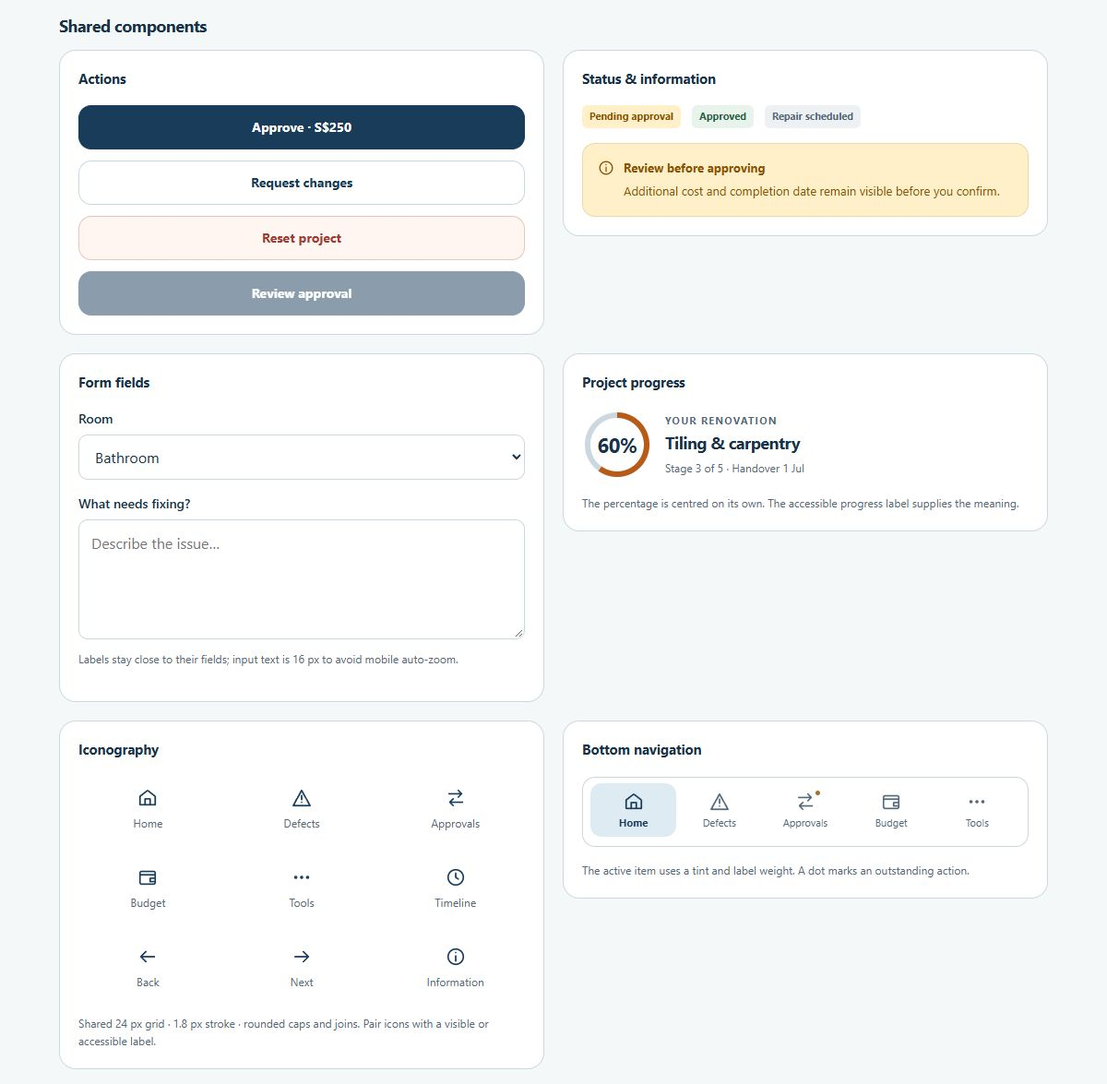
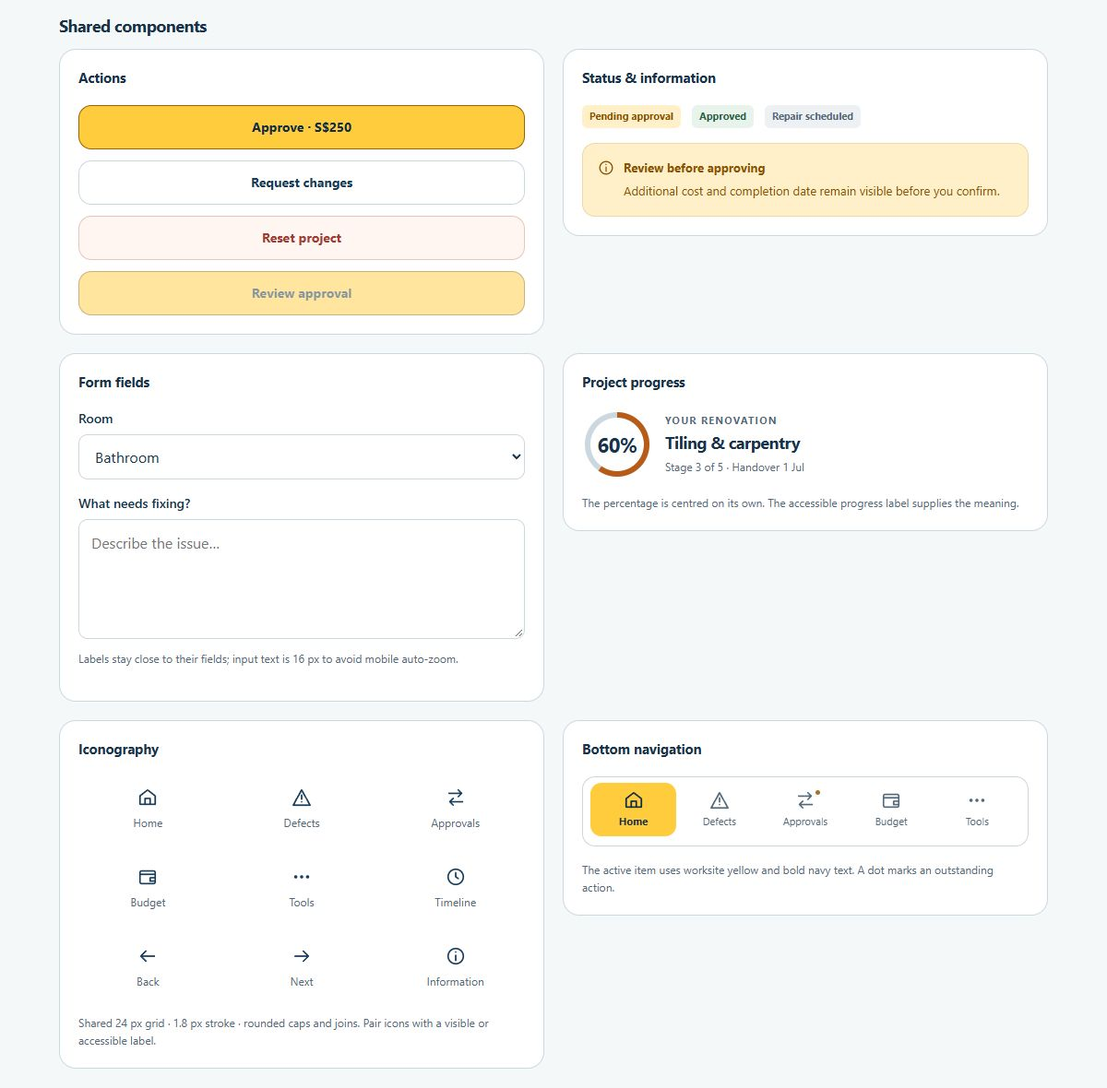
Refine budget alignment and strengthen construction colours

diff --git a/mobile/styles.css b/mobile/styles.css
@@ -4,6 +4,7 @@
   --ink:#17324a; --muted:#536879; --line:#ccd8df; --canvas:#f5f8f8; --white:#fff;
   --amber:#8b5100; --amber-soft:#fff0c9; --red:#a23a31;
   --success:#276244; --success-soft:#e8f3ec; --build-yellow:#ffcc3d; --build-orange:#b75b17;
+  --build-yellow-soft:#fff4cf; --build-yellow-pressed:#efb820;
   --page-inset:20px; --heading-inset:4px; --card-inset:16px;
   --text-title:26px; --text-section:18px; --text-body:14px; --text-item:15px; --text-small:12px; --text-caption:11px;
   --radius-control:14px; --radius-card:18px; --focus:#9a6200;
@@ -53,7 +54,7 @@ small { font-size:12px; }
 main { padding:24px var(--page-inset) 110px; min-height:calc(100dvh - 76px - env(safe-area-inset-top)); overflow-wrap:anywhere; }
 .bottom-nav { position:fixed; z-index:40; bottom:0; left:50%; transform:translateX(-50%); display:grid; grid-template-columns:repeat(5,minmax(0,1fr)); width:100%; max-width:480px; padding:8px 10px max(10px,env(safe-area-inset-bottom)); background:#fffffff5; border-top:1px solid var(--line); backdrop-filter:blur(16px); }
 .bottom-nav a { position:relative; display:flex; flex-direction:column; align-items:center; justify-content:center; gap:5px; min-height:52px; padding:5px 1px; color:var(--muted); font-size:11px; border-radius:12px; }
-.bottom-nav a[aria-current="page"] { background:var(--primary-soft); color:var(--primary); font-weight:700; }
+.bottom-nav a[aria-current="page"] { background:var(--build-yellow); color:var(--primary-dark); font-weight:700; }
 .bottom-nav svg { width:22px; height:22px; }
 .nav-dot { width:5px; height:5px; border-radius:50%; background:#a8722a; position:absolute; top:8px; right:calc(50% - 16px); }
 .eyebrow { font-size:11px; font-weight:700; letter-spacing:1.2px; text-transform:uppercase; color:var(--muted); }
@@ -93,8 +94,8 @@ main { padding:24px var(--page-inset) 110px; min-height:calc(100dvh - 76px - env
 .impact-inline > div+div { padding-left:13px; border-left:1px solid var(--line); }
 .impact-inline .date-impact { font-size:14px; color:var(--primary); line-height:26px; }
 .button { display:flex; align-items:center; justify-content:center; gap:9px; width:100%; min-height:48px; padding:12px 15px; border:1px solid var(--line); border-radius:var(--radius-control); background:white; color:var(--primary); font-size:14px; font-weight:650; line-height:1.45; text-align:center; }
-.button.primary { background:var(--primary); border-color:var(--primary); color:white; }
-.button.primary:hover { background:var(--primary-dark); }
+.button.primary { background:var(--build-yellow); border-color:var(--focus); color:var(--primary-dark); }
+.button.primary:hover:not(:disabled),.button.primary:active:not(:disabled) { background:var(--build-yellow-pressed); }
 .button.secondary:hover { background:var(--primary-soft); }
 .button.danger { color:var(--red); background:#fff5f1; border-color:#e5c6be; }
 .button svg { width:19px; height:19px; }
@@ -105,7 +106,7 @@ main { padding:24px var(--page-inset) 110px; min-height:calc(100dvh - 76px - env
 .card-link > svg:last-child { margin-left:auto; }
 .card-link svg { width:15px; height:15px; }
 .inspection-card { background:#eef3e9; display:flex; gap:13px; align-items:flex-start; }
-.icon-tile { display:grid; place-items:center; width:39px; height:39px; flex-shrink:0; border-radius:12px; background:var(--primary-soft); color:var(--primary); }
+.icon-tile { display:grid; place-items:center; width:39px; height:39px; flex-shrink:0; border-radius:12px; background:var(--build-yellow-soft); color:var(--primary); }
 .inspection-card .record-id { font-size:12px; margin-bottom:5px; }
 .inspection-card p { font-size:13px; color:var(--muted); margin:5px 0 8px; }
 .inspection-card .text-link { min-height:44px; padding:2px 0; font-size:13px; }
@@ -158,7 +159,6 @@ main { padding:24px var(--page-inset) 110px; min-height:calc(100dvh - 76px - env
 .room-row,.record-row,.document-row { display:flex; align-items:center; justify-content:space-between; gap:12px; min-height:88px; padding:var(--card-inset); background:white; border:1px solid var(--line); border-radius:15px; color:var(--ink); }
 .room-row > div:first-child { display:flex; align-items:center; gap:13px; }
 .room-row small { display:block; color:var(--muted); font-size:12px; margin-top:5px; }
-.room-row .icon-tile { background:var(--primary-soft); }
 .room-row > svg,.record-row > svg { width:18px; color:#6a8065; }
 .record-row { align-items:flex-start; }
 .record-row > div { flex:1; min-width:0; display:grid; justify-items:start; row-gap:8px; }
@@ -179,7 +179,7 @@ main { padding:24px var(--page-inset) 110px; min-height:calc(100dvh - 76px - env
 .next-label { display:block; font-size:var(--text-small); font-weight:600; margin-top:0; color:var(--primary); }
 .segmented { display:flex; gap:4px; padding:5px; background:#eaf0f4; border-radius:12px; margin:24px 0 16px; }
 .segmented button { flex:1; min-height:44px; font-size:12px; border:0; background:none; border-radius:8px; color:#627560; font-weight:600; }
-.segmented button[aria-pressed="true"] { color:var(--primary); background:white; box-shadow:0 2px 5px #23342e08; }
+.segmented button[aria-pressed="true"] { color:var(--primary-dark); background:var(--build-yellow-soft); box-shadow:inset 0 -3px var(--build-yellow); }
 .search-field { position:relative; display:block; margin-bottom:12px; }
 .search-field > svg { position:absolute; left:13px; top:14px; width:19px; color:#758970; }
 .search-field input { padding-left:42px; font-size:16px; }
@@ -305,7 +305,6 @@ main { padding-top:19px; padding-bottom:calc(100px + env(safe-area-inset-bottom)
 .intro { font-size:13px; }
 .bottom-nav { min-height:76px; padding:6px 8px max(10px,env(safe-area-inset-bottom)); }
 .bottom-nav a { font-size:var(--text-caption); gap:4px; }
-.bottom-nav a[aria-current=page] { background:var(--primary-soft); color:var(--primary); }
 .proposal-card { border-color:#e1bd78; background:#fffaf1; }
 .proposal-main { padding:var(--card-inset); }
 .proposal-title { gap:12px; margin:16px 0 13px; }
@@ -318,7 +317,7 @@ main { padding-top:19px; padding-bottom:calc(100px + env(safe-area-inset-bottom)
 .impact-inline .date-impact { color:var(--ink); font-size:18px; line-height:1.4; }
 .date-impact span { display:block; color:var(--muted); font-size:11px; font-weight:400; letter-spacing:0; }
 .proposal-card .card-link { border-color:#e9dbc4; font-size:11px; padding-inline:16px; }
-.home-progress { padding:var(--card-inset); }
+.home-progress { padding:var(--card-inset); border-top:4px solid var(--build-yellow); }
 .progress-top { display:flex; gap:14px; align-items:center; }
 .progress-top h2 { font-size:var(--text-section); margin:4px 0 6px; line-height:1.25; }
 .progress-top p:last-child { font-size:var(--text-small); color:var(--muted); }
@@ -469,11 +468,15 @@ body:has(.room-dialog[open]) { overflow:hidden; }
 .approved-banner span { flex:1; }
 .approved-banner strong { display:block; font-size:13px; }
 .approved-banner small { display:block; font-size:11px; color:#4e6c5d; margin-top:5px; }
-.trade-list { display:grid; gap:18px; margin-top:18px; }
-.trade-list .heading-row { padding-inline:var(--heading-inset); font-size:13px; }
-.pending-cost { color:var(--amber); font-size:var(--text-caption); }
-.trade-bar { height:5px; background:#d9e0d7; border-radius:3px; overflow:hidden; margin-top:9px; }
+.budget-trades { margin-top:24px; }
+.budget-trades > h2 { margin-bottom:20px; }
+.trade-list { display:grid; gap:20px; list-style:none; margin:0; padding:0; }
+.trade-heading { display:grid; grid-template-columns:minmax(0,1fr) auto; align-items:baseline; gap:12px; font-size:13px; line-height:1.5; }
+.trade-amount { text-align:right; white-space:nowrap; font-variant-numeric:tabular-nums; }
+.pending-cost { margin-top:8px; color:var(--amber); font-size:var(--text-small); }
+.trade-bar { height:6px; background:var(--primary-soft); border-radius:3px; overflow:hidden; margin-top:8px; }
 .trade-bar span { display:block; height:100%; background:var(--primary); border-radius:3px; }
+.trade-note { margin-top:16px; padding-top:12px; border-top:1px solid var(--line); font-size:var(--text-small); color:var(--muted); }
 .timeline-stats { margin-top:0; margin-bottom:25px; }
 .timeline-stats .stat-card strong { font-size:23px; }
 .payment-timeline { list-style:none; padding:0; margin:0; }
@@ -486,7 +489,7 @@ body:has(.room-dialog[open]) { overflow:hidden; }
 .payment-timeline h3 { font-size:var(--text-item); }
 .payment-timeline .heading-row { gap:7px; align-items:flex-start; }
 .payment-timeline .heading-row > strong { font-size:13px; flex-shrink:0; }
-.payment-timeline p { font-size:11px; color:var(--muted); margin-top:7px; }
+.payment-timeline p { font-size:var(--text-small); color:var(--muted); margin-top:8px; }
 .payment-timeline .status { margin-top:10px; font-size:var(--text-caption); }
 .new-milestone > div { border:1px solid #b4caba; background:#e4eee5; padding:14px!important; border-radius:13px; }
 .new-milestone { padding-bottom:20px; }
@@ -581,7 +584,7 @@ body:has(.room-dialog[open]) { overflow:hidden; }
 .menu-row { display:flex; align-items:center; gap:12px; min-height:82px; padding:var(--card-inset); color:var(--ink); }
 .menu-row + .menu-row { border-top:1px solid var(--line); }
 .menu-row:hover { background:#edf3f7; }
-.menu-icon { display:grid; place-items:center; flex-shrink:0; width:36px; height:36px; border-radius:11px; background:var(--primary-soft); color:var(--primary); }
+.menu-icon { display:grid; place-items:center; flex-shrink:0; width:36px; height:36px; border-radius:11px; background:var(--build-yellow-soft); color:var(--primary); }
 .menu-icon svg { width:19px; height:19px; }
 .menu-copy { flex:1; min-width:0; }
 .menu-copy strong { display:block; font-size:var(--text-item); font-weight:650; line-height:1.4; }
@@ -621,7 +624,7 @@ body:has(.room-dialog[open]) { overflow:hidden; }
 /* Quotes and payments stay one tap away within the Budget section. */
 .budget-nav { display:grid; grid-template-columns:repeat(3,minmax(0,1fr)); gap:4px; margin-bottom:20px; padding:4px; border:1px solid var(--line); border-radius:12px; background:#eaf0f4; }
 .budget-nav a { display:grid; place-items:center; min-height:44px; padding:6px; border-radius:8px; color:var(--muted); font-size:13px; font-weight:600; }
-.budget-nav a[aria-current="page"] { background:var(--white); color:var(--primary); box-shadow:0 2px 5px #23342e08; }
+.budget-nav a[aria-current="page"] { background:var(--build-yellow-soft); color:var(--primary-dark); box-shadow:inset 0 -3px var(--build-yellow); }
 .screen-heading h1:first-child { margin-top:0; }
 
 /* Demo controls are separate from the homeowner's project and profile. */

diff --git a/docs/design-system.html b/docs/design-system.html
@@ -76,12 +76,14 @@
     </header>
 
     <section class="reference-section" id="colours">
-      <h2>Colour palette</h2><p>Navy identifies actions. Yellow gives the brand its worksite character. Amber marks a pending decision; green confirms a completed action. Status always includes words.</p>
+      <h2>Colour palette</h2><p>Worksite yellow highlights primary actions and selected navigation, with deep navy text. Navy anchors budget summaries. Amber labels pending decisions; green confirms completed actions.</p>
       <div class="palette">
         <div class="swatch"><div class="swatch-colour" style="--swatch:var(--primary)"></div><strong>Primary navy</strong><code>#183C5A · --primary</code></div>
         <div class="swatch"><div class="swatch-colour" style="--swatch:var(--primary-dark)"></div><strong>Deep navy</strong><code>#102B43 · --primary-dark</code></div>
         <div class="swatch"><div class="swatch-colour" style="--swatch:var(--primary-soft)"></div><strong>Selected surface</strong><code>#DFEBF3 · --primary-soft</code></div>
         <div class="swatch"><div class="swatch-colour" style="--swatch:var(--build-yellow)"></div><strong>Worksite yellow</strong><code>#FFCC3D · --build-yellow</code></div>
+        <div class="swatch"><div class="swatch-colour" style="--swatch:var(--build-yellow-soft)"></div><strong>Yellow tint</strong><code>#FFF4CF · --build-yellow-soft</code></div>
+        <div class="swatch"><div class="swatch-colour" style="--swatch:var(--build-yellow-pressed)"></div><strong>Pressed yellow</strong><code>#EFB820 · --build-yellow-pressed</code></div>
         <div class="swatch"><div class="swatch-colour" style="--swatch:var(--build-orange)"></div><strong>Progress orange</strong><code>#B75B17 · --build-orange</code></div>
         <div class="swatch"><div class="swatch-colour" style="--swatch:var(--ink)"></div><strong>Text</strong><code>#17324A · --ink</code></div>
         <div class="swatch"><div class="swatch-colour" style="--swatch:var(--muted)"></div><strong>Secondary text</strong><code>#536879 · --muted</code></div>
@@ -117,7 +119,7 @@
         <div class="component"><h3>Form fields</h3><div class="field"><label for="sample-room">Room</label><select id="sample-room"><option>Bathroom</option><option>Kitchen</option></select></div><div class="field"><label for="sample-detail">What needs fixing?</label><textarea id="sample-detail" placeholder="Describe the issue…"></textarea><p class="help">Labels stay close to their fields; input text is 16 px to avoid mobile auto-zoom.</p></div></div>
         <div class="component"><h3>Project progress</h3><div class="progress-top"><span class="progress-ring" role="progressbar" aria-label="Renovation progress" aria-valuemin="0" aria-valuemax="100" aria-valuenow="60"><svg viewBox="0 0 76 76" aria-hidden="true"><circle class="progress-ring-track" cx="38" cy="38" r="32"/><circle class="progress-ring-fill" cx="38" cy="38" r="32" pathLength="100" stroke-dasharray="60 100" transform="rotate(-90 38 38)"/></svg><span class="progress-ring-copy"><strong>60%</strong></span></span><div><p class="eyebrow">Your renovation</p><h2>Tiling & carpentry</h2><p>Stage 3 of 5 · Handover 1 Jul</p></div></div><p class="scale-note">The percentage is centred on its own. The accessible progress label supplies the meaning.</p></div>
 <div class="component"><h3>Iconography</h3><div class="icon-catalogue"><div><svg aria-hidden="true"><use href="#i-home"/></svg><small>Home</small></div><div><svg aria-hidden="true"><use href="#i-defects"/></svg><small>Defects</small></div><div><svg aria-hidden="true"><use href="#i-changes"/></svg><small>Approvals</small></div><div><svg aria-hidden="true"><use href="#i-budget"/></svg><small>Budget</small></div><div><svg aria-hidden="true"><use href="#i-more"/></svg><small>Tools</small></div><div><svg aria-hidden="true"><use href="#i-clock"/></svg><small>Timeline</small></div><div><svg aria-hidden="true"><use href="#i-back"/></svg><small>Back</small></div><div><svg aria-hidden="true"><use href="#i-arrow"/></svg><small>Next</small></div><div><svg aria-hidden="true"><use href="#i-info"/></svg><small>Information</small></div></div><p class="scale-note">Shared 24 px grid · 1.8 px stroke · rounded caps and joins. Pair icons with a visible or accessible label.</p></div>
-        <div class="component" id="navigation-example"><h3>Bottom navigation</h3><nav class="bottom-nav reference-nav" aria-label="Navigation example"><a href="docs/design-system.html#navigation-example" aria-current="page"><svg aria-hidden="true"><use href="#i-home"/></svg><span>Home</span></a><a href="docs/design-system.html#navigation-example"><svg aria-hidden="true"><use href="#i-defects"/></svg><span>Defects</span></a><a href="docs/design-system.html#navigation-example"><svg aria-hidden="true"><use href="#i-changes"/></svg><span>Approvals</span><span class="nav-dot"></span></a><a href="docs/design-system.html#navigation-example"><svg aria-hidden="true"><use href="#i-budget"/></svg><span>Budget</span></a><a href="docs/design-system.html#navigation-example"><svg aria-hidden="true"><use href="#i-more"/></svg><span>Tools</span></a></nav><p class="scale-note">The active item uses a tint and label weight. A dot marks an outstanding action.</p></div>
+        <div class="component" id="navigation-example"><h3>Bottom navigation</h3><nav class="bottom-nav reference-nav" aria-label="Navigation example"><a href="docs/design-system.html#navigation-example" aria-current="page"><svg aria-hidden="true"><use href="#i-home"/></svg><span>Home</span></a><a href="docs/design-system.html#navigation-example"><svg aria-hidden="true"><use href="#i-defects"/></svg><span>Defects</span></a><a href="docs/design-system.html#navigation-example"><svg aria-hidden="true"><use href="#i-changes"/></svg><span>Approvals</span><span class="nav-dot"></span></a><a href="docs/design-system.html#navigation-example"><svg aria-hidden="true"><use href="#i-budget"/></svg><span>Budget</span></a><a href="docs/design-system.html#navigation-example"><svg aria-hidden="true"><use href="#i-more"/></svg><span>Tools</span></a></nav><p class="scale-note">The active item uses worksite yellow and bold navy text. A dot marks an outstanding action.</p></div>
       </div>
     </section>
 

diff --git a/mobile/app.js b/mobile/app.js
@@ -515,9 +515,11 @@
 
   function budgetScreen() {
     const metrics=totals(),approved=state.proposal.status==='approved';
+    const trades = [['Carpentry',7200],['Tiling',3600+(approved?PROPOSAL_COST:0)],['Electrical',3100],['Others',1100]];
+    const tradeBreakdown = `<section class="card budget-trades" aria-labelledby="trade-heading"><h2 id="trade-heading">Approved so far, by trade</h2><ul class="trade-list">${trades.map(([name,amount]) => `<li><div class="trade-heading"><strong>${name}</strong><span class="trade-amount">${money(amount)}</span></div><div class="trade-bar" role="meter" aria-label="${name} approved cost" aria-valuemin="0" aria-valuemax="${metrics.approved}" aria-valuenow="${amount}" aria-valuetext="${money(amount)} of ${money(metrics.approved)} approved"><span style="width:${amount/metrics.approved*100}%"></span></div>${name==='Tiling'&&!approved&&proposalReady()?`<p class="pending-cost">+${money(PROPOSAL_COST)} pending approval</p>`:''}</li>`).join('')}</ul><p class="trade-note">Approved costs are commitments, not payments. Pending changes are excluded until you approve.</p></section>`;
     return heading('Budget')+budgetNavigation('budget')+`<div class="money-card"><span class="money-label">Remaining budget${icon('budget')}</span><span class="money-value">${money(metrics.available)}</span><div class="budget-bar"><span style="width:${metrics.approved/PROJECT_BUDGET*100}%"></span></div><div class="money-footer"><small>${money(metrics.approved)} approved</small><small>${money(PROJECT_BUDGET)} total</small></div></div>`+
       (approved?`<a class="approved-banner" href="#approval-receipt">${icon('check')}<span><strong>New bathroom tiles approved</strong><small>${tileName()} · VO-015 · −S$250</small></span>${icon('right')}</a>`:proposalReady()?`<section class="card budget-impact"><div class="budget-impact-body"><div class="heading-row"><h2>If you approve <span class="record-ref">VO-015</span></h2>${badge('Pending approval')}</div><div class="budget-before-after"><span><small>Now</small><strong>${money(metrics.available)}</strong></span>${icon('arrow')}<span><small>After</small><strong>${money(metrics.available-PROPOSAL_COST)}</strong></span></div><p>Proposed completion: <strong>14 Jul 2026</strong> · originally 1 Jul.</p></div><a class="card-action" href="#${reviewReturnTarget()}"><span>Review proposed change</span>${icon('arrow')}</a></section>`:'')+
-      section('Approved so far, by trade',`<div class="trade-list">${[['Carpentry',7200],['Tiling',3600+(approved?250:0)],['Electrical',3100],['Others',1100]].map(([name,amount])=>`<div><div class="heading-row"><strong>${name}</strong><span>${money(amount)}${name==='Tiling'&&!approved&&proposalReady()?'<small class="pending-cost"> +250 pending</small>':''}</span></div><div class="trade-bar"><span style="width:${amount/15000*100}%"></span></div></div>`).join('')}</div>`)+`<p class="demo-note">Approved costs are commitments, not payments. Pending changes are excluded until you approve.</p>`;
+      tradeBreakdown;
   }
 
   function defectScreen(id) {

diff --git a/docs/design-system.md b/docs/design-system.md
@@ -1,12 +1,12 @@
 # RenoGuard design system
 
-Shared rules for the construction-inspired mobile prototype. The palette takes its cue from worksite signage and hard hats: navy for clear actions, yellow for identity, and orange for progress. The mark is an original upright hard hat; the app does not use character artwork.
+Shared rules for the construction-inspired mobile prototype. The palette takes its cue from worksite signage and hard hats: yellow for primary actions and selected navigation, navy for readable text and budget summaries, and orange for progress. The mark is an original upright hard hat; the app does not use character artwork.
 
 ![RenoGuard hard-hat logo](../assets/renoguard-mark.svg)
 
-**[Open the live colour and component sheet →](http://127.0.0.1:8765/docs/design-system.html)**
+**[Open the live colour and component sheet →](https://renoguard-prototype.vercel.app/docs/design-system.html)**
 
-The images below are embedded in this guide, so they display directly on GitHub without running the app. To try the interactive examples, start the preview server. The sheet loads the same stylesheet and comparison component as the app, rather than maintaining separate visual examples.
+The images below display directly on GitHub. The hosted sheet includes interactive examples and loads the same stylesheet and comparison component as the app. For local changes, use the preview server's `/docs/design-system.html` page.
 
 [Back to the project README](../README.md)
 
@@ -22,10 +22,12 @@ The images below are embedded in this guide, so they display directly on GitHub 
 
 | Colour / token | Hex | Use |
 | --- | --- | --- |
-| Primary navy · `--primary` | `#183C5A` | Main actions, links, active navigation |
-| Deep navy · `--primary-dark` | `#102B43` | Loading screen, pressed actions |
+| Primary navy · `--primary` | `#183C5A` | Budget summaries, links, icons and selected tile outlines |
+| Deep navy · `--primary-dark` | `#102B43` | Text on yellow actions, loading screen |
 | Navy tint · `--primary-soft` | `#DFEBF3` | Selected tiles and information surfaces |
-| Worksite yellow · `--build-yellow` | `#FFCC3D` | Logo and restrained brand accents |
+| Worksite yellow · `--build-yellow` | `#FFCC3D` | Primary actions, active bottom navigation, Home summary accent, logo and budget usage |
+| Yellow tint · `--build-yellow-soft` | `#FFF4CF` | Selected tabs and navigation icon backgrounds |
+| Pressed yellow · `--build-yellow-pressed` | `#EFB820` | Hover and press feedback on enabled primary actions |
 | Progress orange · `--build-orange` | `#B75B17` | Completed portion of the progress ring |
 | Ink · `--ink` | `#17324A` | Primary text |
 | Muted · `--muted` | `#536879` | Labels, captions and secondary text |
@@ -41,9 +43,9 @@ The images below are embedded in this guide, so they display directly on GitHub 
 
 </details>
 
-Use named tokens in `mobile/styles.css`. Colour supports a text label, icon or checked state; it does not carry status alone. Yellow and orange are accents, not body-text colours.
+Use named tokens in `mobile/styles.css`. Colour supports a text label, icon or checked state; it does not carry status alone. Yellow action surfaces use deep navy text. Keep warnings labelled in amber and completed actions labelled in green.
 
-Checked contrast pairs: white on primary navy **11.46:1**, muted on canvas **5.43:1**, warning on its tint **5.67:1**, success on its tint **6.33:1**, and progress orange against the track **3.20:1**. These checks cover the named pairs, not a claim that every possible state has been independently certified.
+Checked contrast pairs: deep navy on worksite yellow **9.63:1**, deep navy on pressed yellow **7.97:1**, white on primary navy **11.46:1**, muted on canvas **5.43:1**, warning on its tint **5.67:1**, success on its tint **6.33:1**, and progress orange against the track **3.20:1**. These checks cover the named pairs, not a claim that every possible state has been independently certified.
 
 <br>
 
@@ -82,6 +84,7 @@ A large desktop monitor does not enlarge the app's CSS font sizes. The desktop p
 - Page edges: **20 px**, changing to **16 px** below 360 px wide.
 - Unboxed headings: **4 px** inside the card edge. This creates a small optical inset without looking detached.
 - Card content: **16 px** inside the border. Status, title, metadata and actions share that inset.
+- Budget trade breakdown: heading, labels, bar endpoints and note share the card's content edges. Amounts align on the right; pending additions sit on a separate line below the relevant bar.
 - Label-to-field gap: **8 px**. Helper text follows its field by **8 px**.
 - Section spacing: **24 px**. Related stacked controls use **12 px**.
 - Cards use an **18 px** radius; primary controls use a **14 px** radius unless their component has a specific shape.
@@ -100,11 +103,12 @@ Keep one shared rule for a component. Add a local exception only when its role a
 | --- | --- | --- |
 | Hard-hat mark | Upright, square proportions, no rotation; reuse at every size | `assets/renoguard-mark.svg` |
 | App header | Brand on primary screens; centred title between equal Back/Home controls on detail screens | `index.html`, `.app-header` |
-| Bottom navigation | Home, Defects, Approvals, Budget, Tools; current item has text and a tinted background | `.bottom-nav` |
-| Primary / secondary / danger action | Common 48 px height, visible focus, disabled state and press feedback | `.button` |
+| Bottom navigation | Home, Defects, Approvals, Budget, Tools; current item uses yellow with bold navy text | `.bottom-nav` |
+| Primary / secondary / danger action | Yellow primary, white secondary, red-tinted danger; common 48 px height, visible focus, disabled state and press feedback | `.button` |
 | Card and record | Shared content inset, border and role-based title size | `.card`, `.record-row` |
 | Status pill | Pending / approved / scheduled labels with semantic tints | `.status` |
 | Progress ring and stage tracker | 60% centred; ring fills on Home entry and remains accurate after rerenders | `renovationProgress()` |
+| Approved cost by trade | Shared card insets; bars show each trade's share of the current approved total, not construction completion | `.budget-trades`, `.trade-bar` |
 | Form field | Label, input, helper and error form one group; errors explain the correction | `.field` |
 | Defect photo | A thumbnail opens an enlarged sample image; counts stay beside the photo | `.record-thumbnail`, `.defect-photos` |
 | Original specification | Material name, size, finish and stock warning appear before either comparison | `originalBrief()` |
